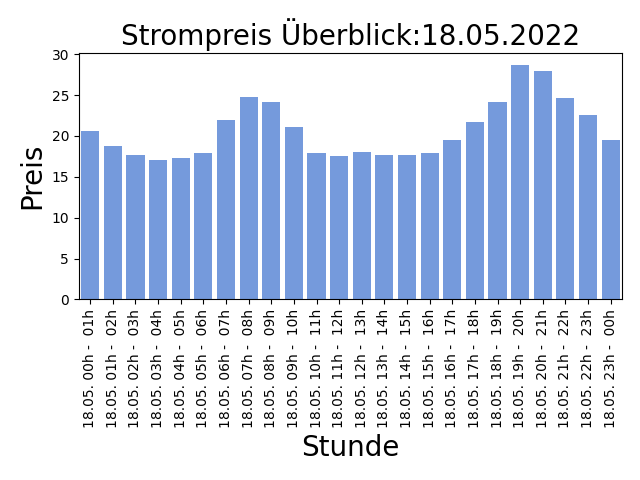
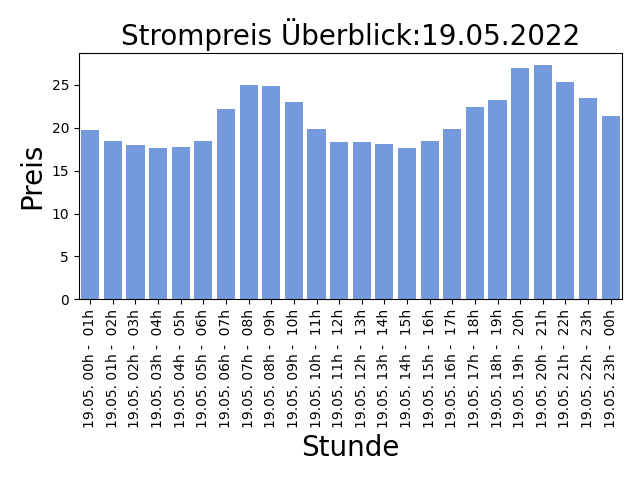
AUTOMATIC UPDATE PRICE LIST: 2022-05-18-14:30:09

diff --git a/README.md b/README.md
@@ -1,5 +1,5 @@
 
-## Strompreise für den 18.05.2022
+## Strompreise für den 19.05.2022
 
 Niedrige Preise deuten auf viel Sonnen und Windenergieerzeugung hin, ein hoher Anteil an erneuerbaren Energien bedeuted weniger CO2 Verbrauch!
 
@@ -7,31 +7,31 @@ Niedrige Preise deuten auf viel Sonnen und Windenergieerzeugung hin, ein hoher A
 
 | Stunde | Preis in Cent/kWh |
 |---|---|
-| 18.05. 00h -  01h | 20.647 | 
-| 18.05. 01h -  02h | 18.788999999999998 | 
-| 18.05. 02h -  03h | 17.622999999999998 | 
-| **18.05. 03h -  04h** | **17.098** | 
-| 18.05. 04h -  05h | 17.348 | 
-| 18.05. 05h -  06h | 17.961000000000002 | 
-| 18.05. 06h -  07h | 21.994999999999997 | 
-| 18.05. 07h -  08h | 24.759999999999998 | 
-| 18.05. 08h -  09h | 24.128999999999998 | 
-| 18.05. 09h -  10h | 21.107 | 
-| 18.05. 10h -  11h | 17.916999999999998 | 
-| 18.05. 11h -  12h | 17.490000000000002 | 
-| 18.05. 12h -  13h | 17.994 | 
-| 18.05. 13h -  14h | 17.703 | 
-| 18.05. 14h -  15h | 17.671 | 
-| 18.05. 15h -  16h | 17.89 | 
-| 18.05. 16h -  17h | 19.494 | 
-| 18.05. 17h -  18h | 21.684 | 
-| 18.05. 18h -  19h | 24.119999999999997 | 
-| 18.05. 19h -  20h | 28.699 | 
-| 18.05. 20h -  21h | 28.0 | 
-| 18.05. 21h -  22h | 24.588 | 
-| 18.05. 22h -  23h | 22.573 | 
-| 18.05. 23h -  00h | 19.447 | 
+| 19.05. 00h -  01h | 19.696 | 
+| 19.05. 01h -  02h | 18.500999999999998 | 
+| 19.05. 02h -  03h | 17.994 | 
+| 19.05. 03h -  04h | 17.627000000000002 | 
+| 19.05. 04h -  05h | 17.798 | 
+| 19.05. 05h -  06h | 18.506 | 
+| 19.05. 06h -  07h | 22.233 | 
+| 19.05. 07h -  08h | 25.003999999999998 | 
+| 19.05. 08h -  09h | 24.931 | 
+| 19.05. 09h -  10h | 22.993000000000002 | 
+| 19.05. 10h -  11h | 19.822 | 
+| 19.05. 11h -  12h | 18.399 | 
+| 19.05. 12h -  13h | 18.296 | 
+| 19.05. 13h -  14h | 18.080000000000002 | 
+| **19.05. 14h -  15h** | **17.619999999999997** | 
+| 19.05. 15h -  16h | 18.509 | 
+| 19.05. 16h -  17h | 19.896 | 
+| 19.05. 17h -  18h | 22.402 | 
+| 19.05. 18h -  19h | 23.299 | 
+| 19.05. 19h -  20h | 26.927 | 
+| 19.05. 20h -  21h | 27.339999999999996 | 
+| 19.05. 21h -  22h | 25.3 | 
+| 19.05. 22h -  23h | 23.438 | 
+| 19.05. 23h -  00h | 21.331 | 
 
 Preise der EPEX Spot ® Strombörse (neue Preise werden täglich um 14:00 veröffentlicht für den kompletten nächsten Tag).
 
-letzte Aktualisierung:17.05.2022 14:30
+letzte Aktualisierung:18.05.2022 14:30
